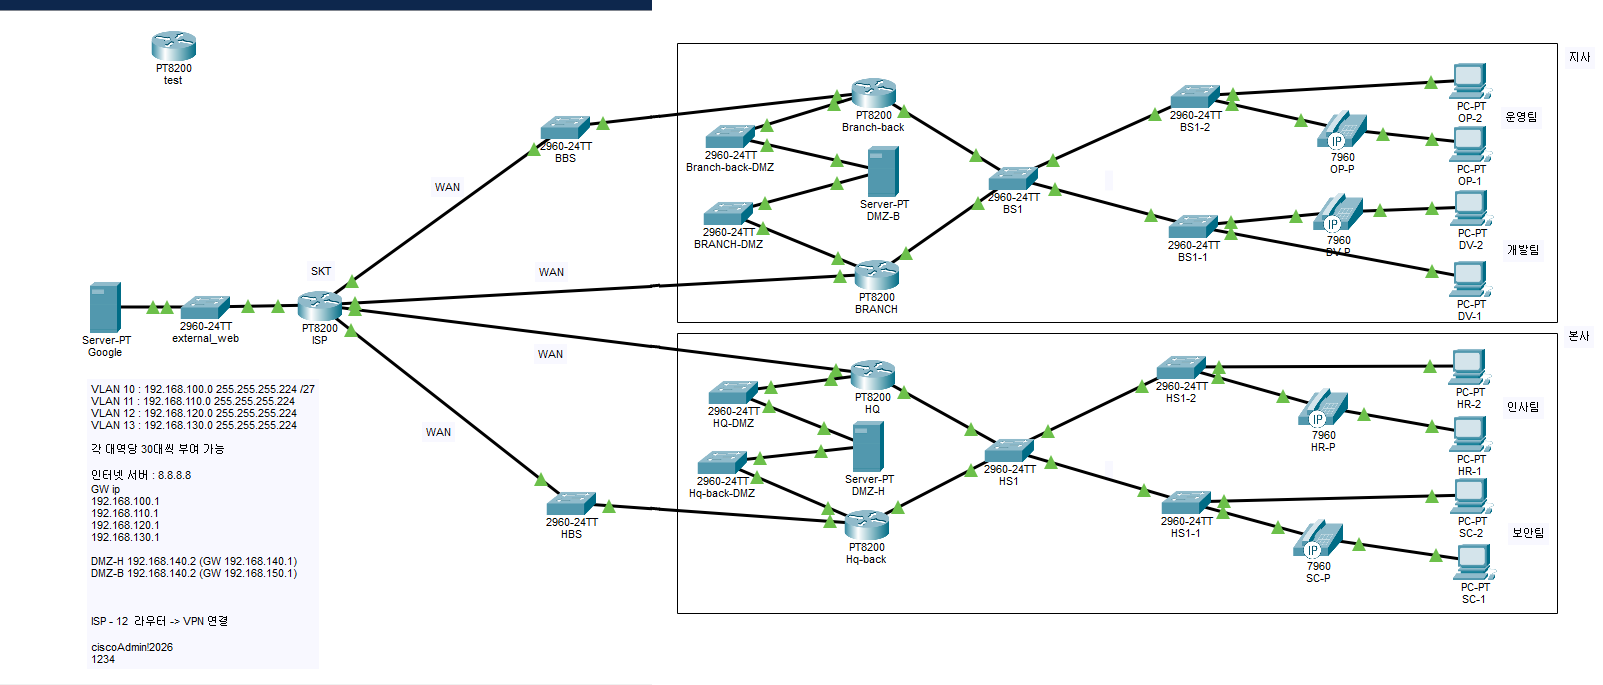
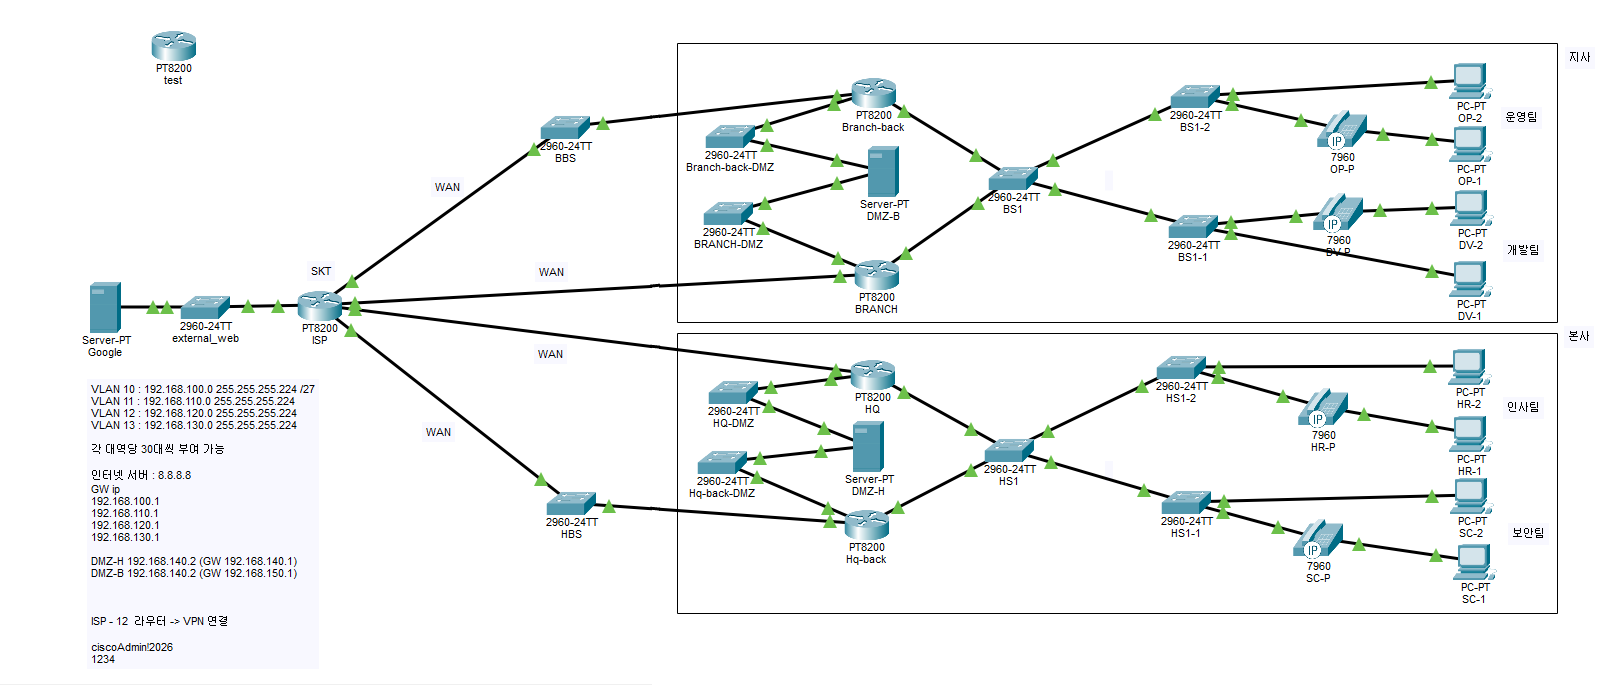
파란띠 제거

Changed region(s): [[0.0, 0.0, 0.4055, 0.0307]]

diff --git a/index.html b/index.html
@@ -445,7 +445,7 @@
         </div>
 
         <div class="project-img-container" id="topologyTrigger" title="클릭하여 원본 및 구간별 상세 확대보기">
-          <img src="assets/network-topology.jpg?v=2" alt="Sentra 사내망 다계층 접근통제 시스템 - 본사-지사 고가용성 기업망 네트워크 토폴로지 구성도">
+          <img src="assets/network-topology.jpg?v=3" alt="Sentra 사내망 다계층 접근통제 시스템 - 본사-지사 고가용성 기업망 네트워크 토폴로지 구성도">
           <span class="zoom-badge">🔍 클릭하여 확대</span>
           <div class="project-img-caption">▲ 직접 전담 설계 및 구축한 본사(HQ) - 지사(BRANCH) 고가용성 이중화 기업망 토폴로지 (클릭 시 원본 및 구간별 확대)
           </div>
@@ -521,7 +521,7 @@
     <!-- 인터랙티브 패킷트레이서 캔버스 뷰포트 -->
     <div class="pt-viewport" id="ptViewport">
       <div class="pt-canvas" id="ptCanvas">
-        <img id="modalImg" src="assets/network-topology-hd.png?v=2" alt="Cisco Packet Tracer 엔터프라이즈 고해상도 토폴로지 구성도">
+        <img id="modalImg" src="assets/network-topology-hd.png?v=3" alt="Cisco Packet Tracer 엔터프라이즈 고해상도 토폴로지 구성도">
       </div>
     </div>
 
